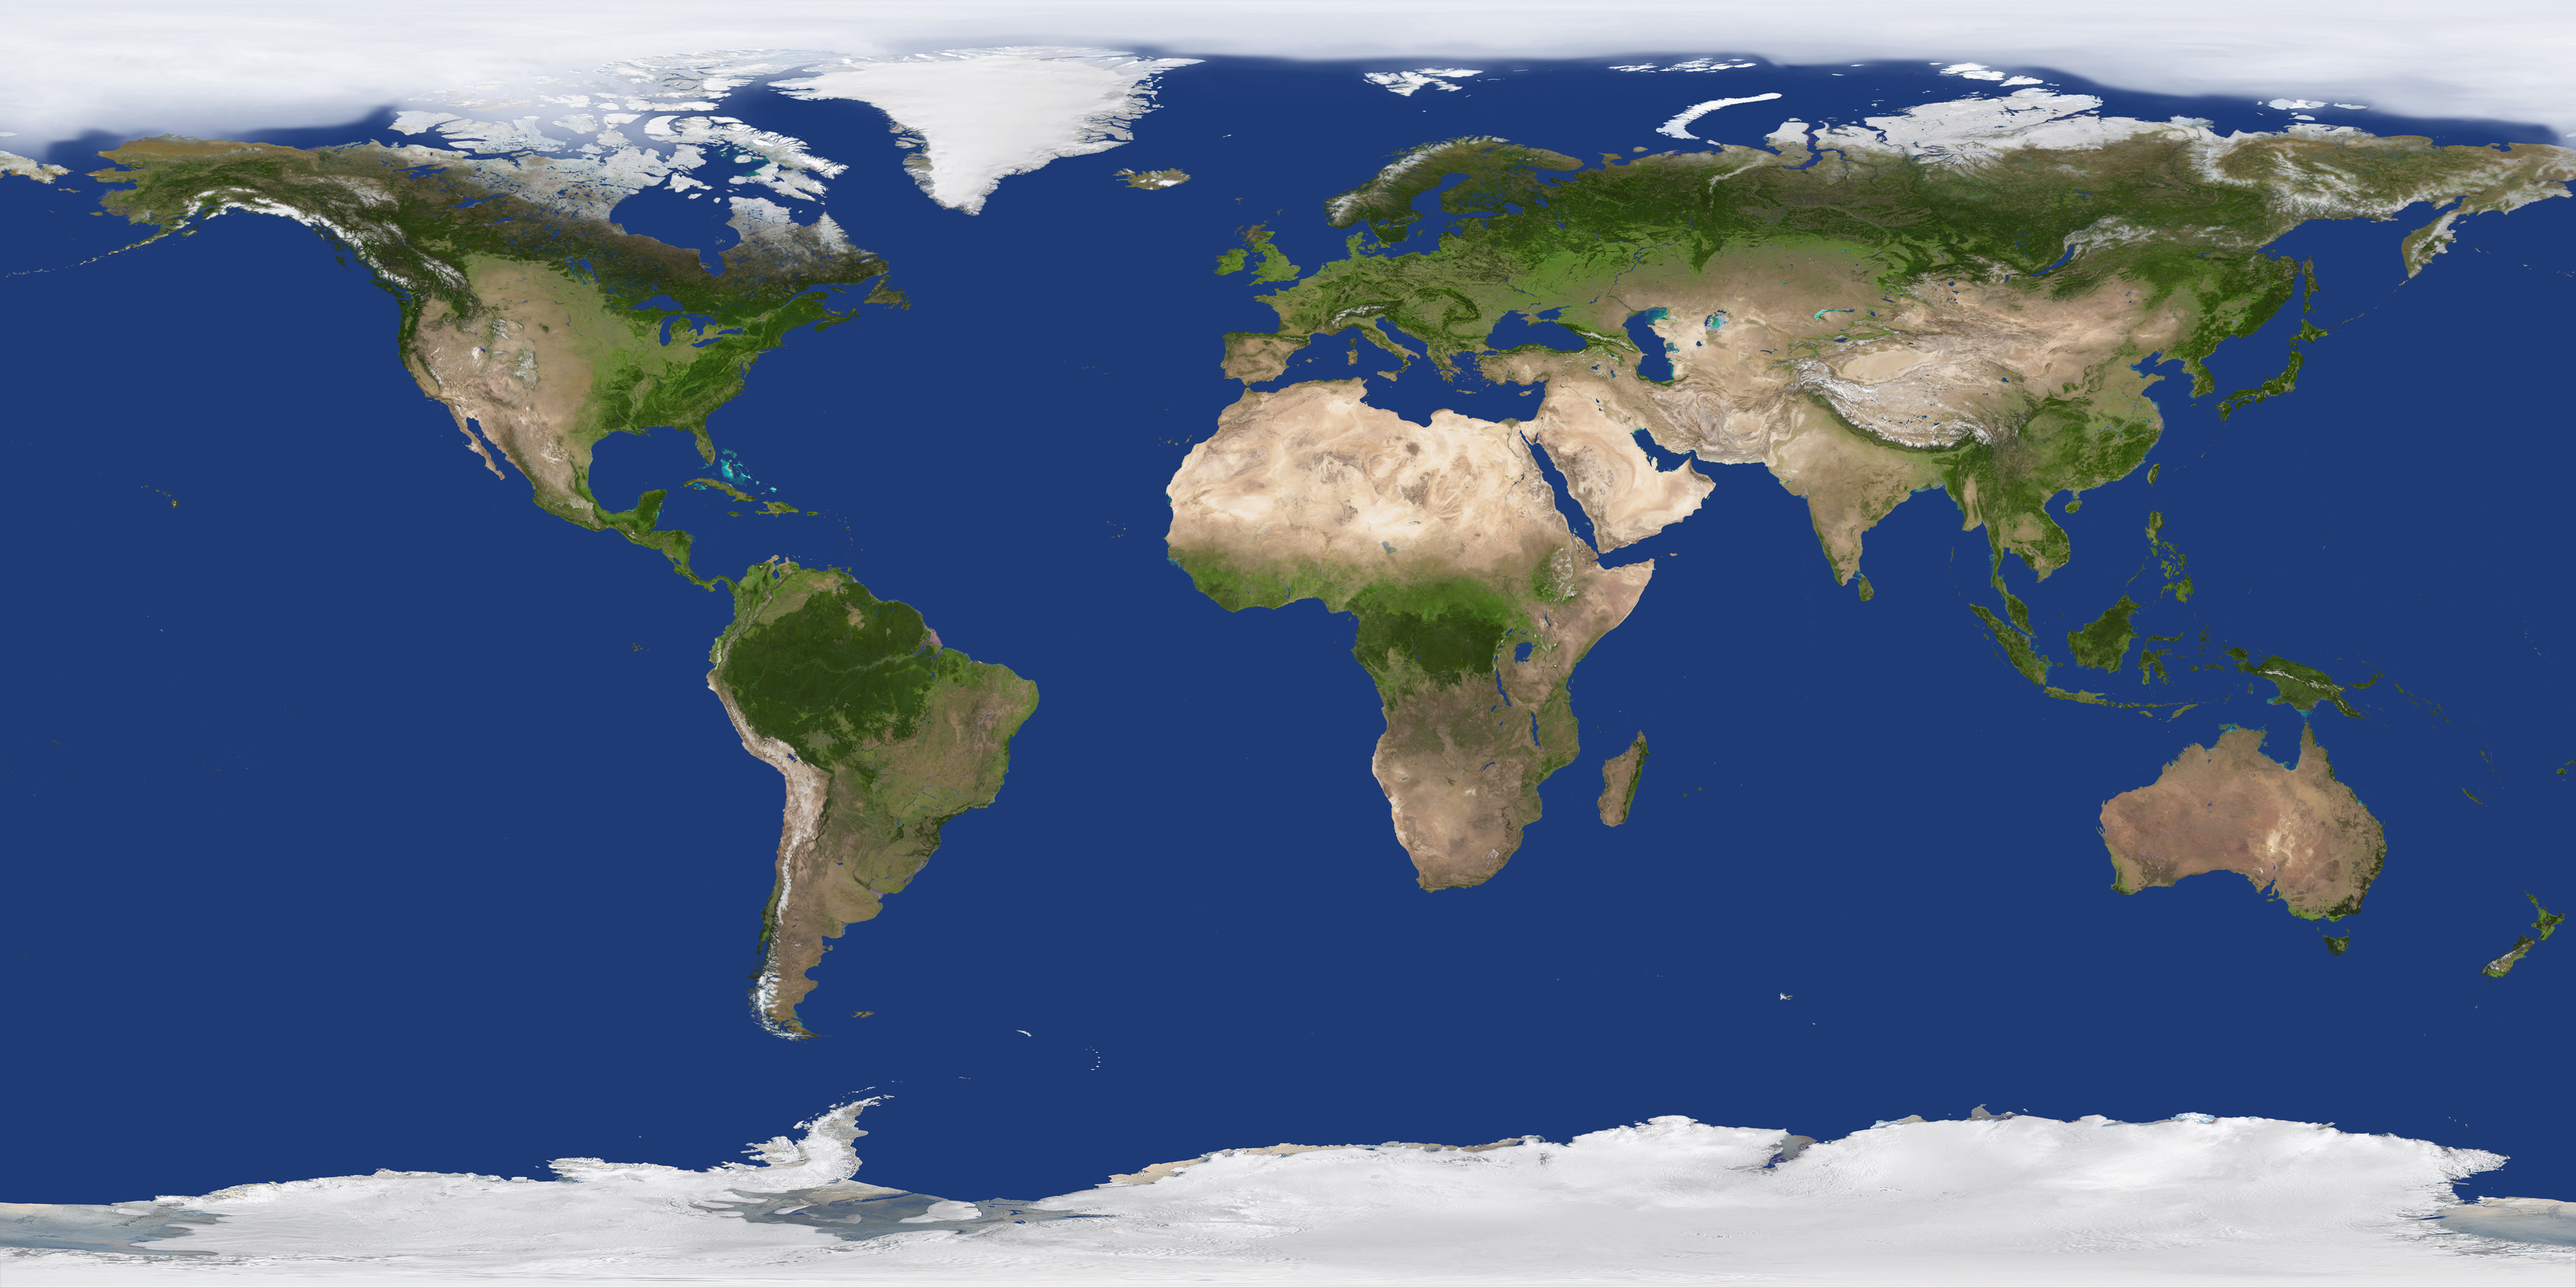
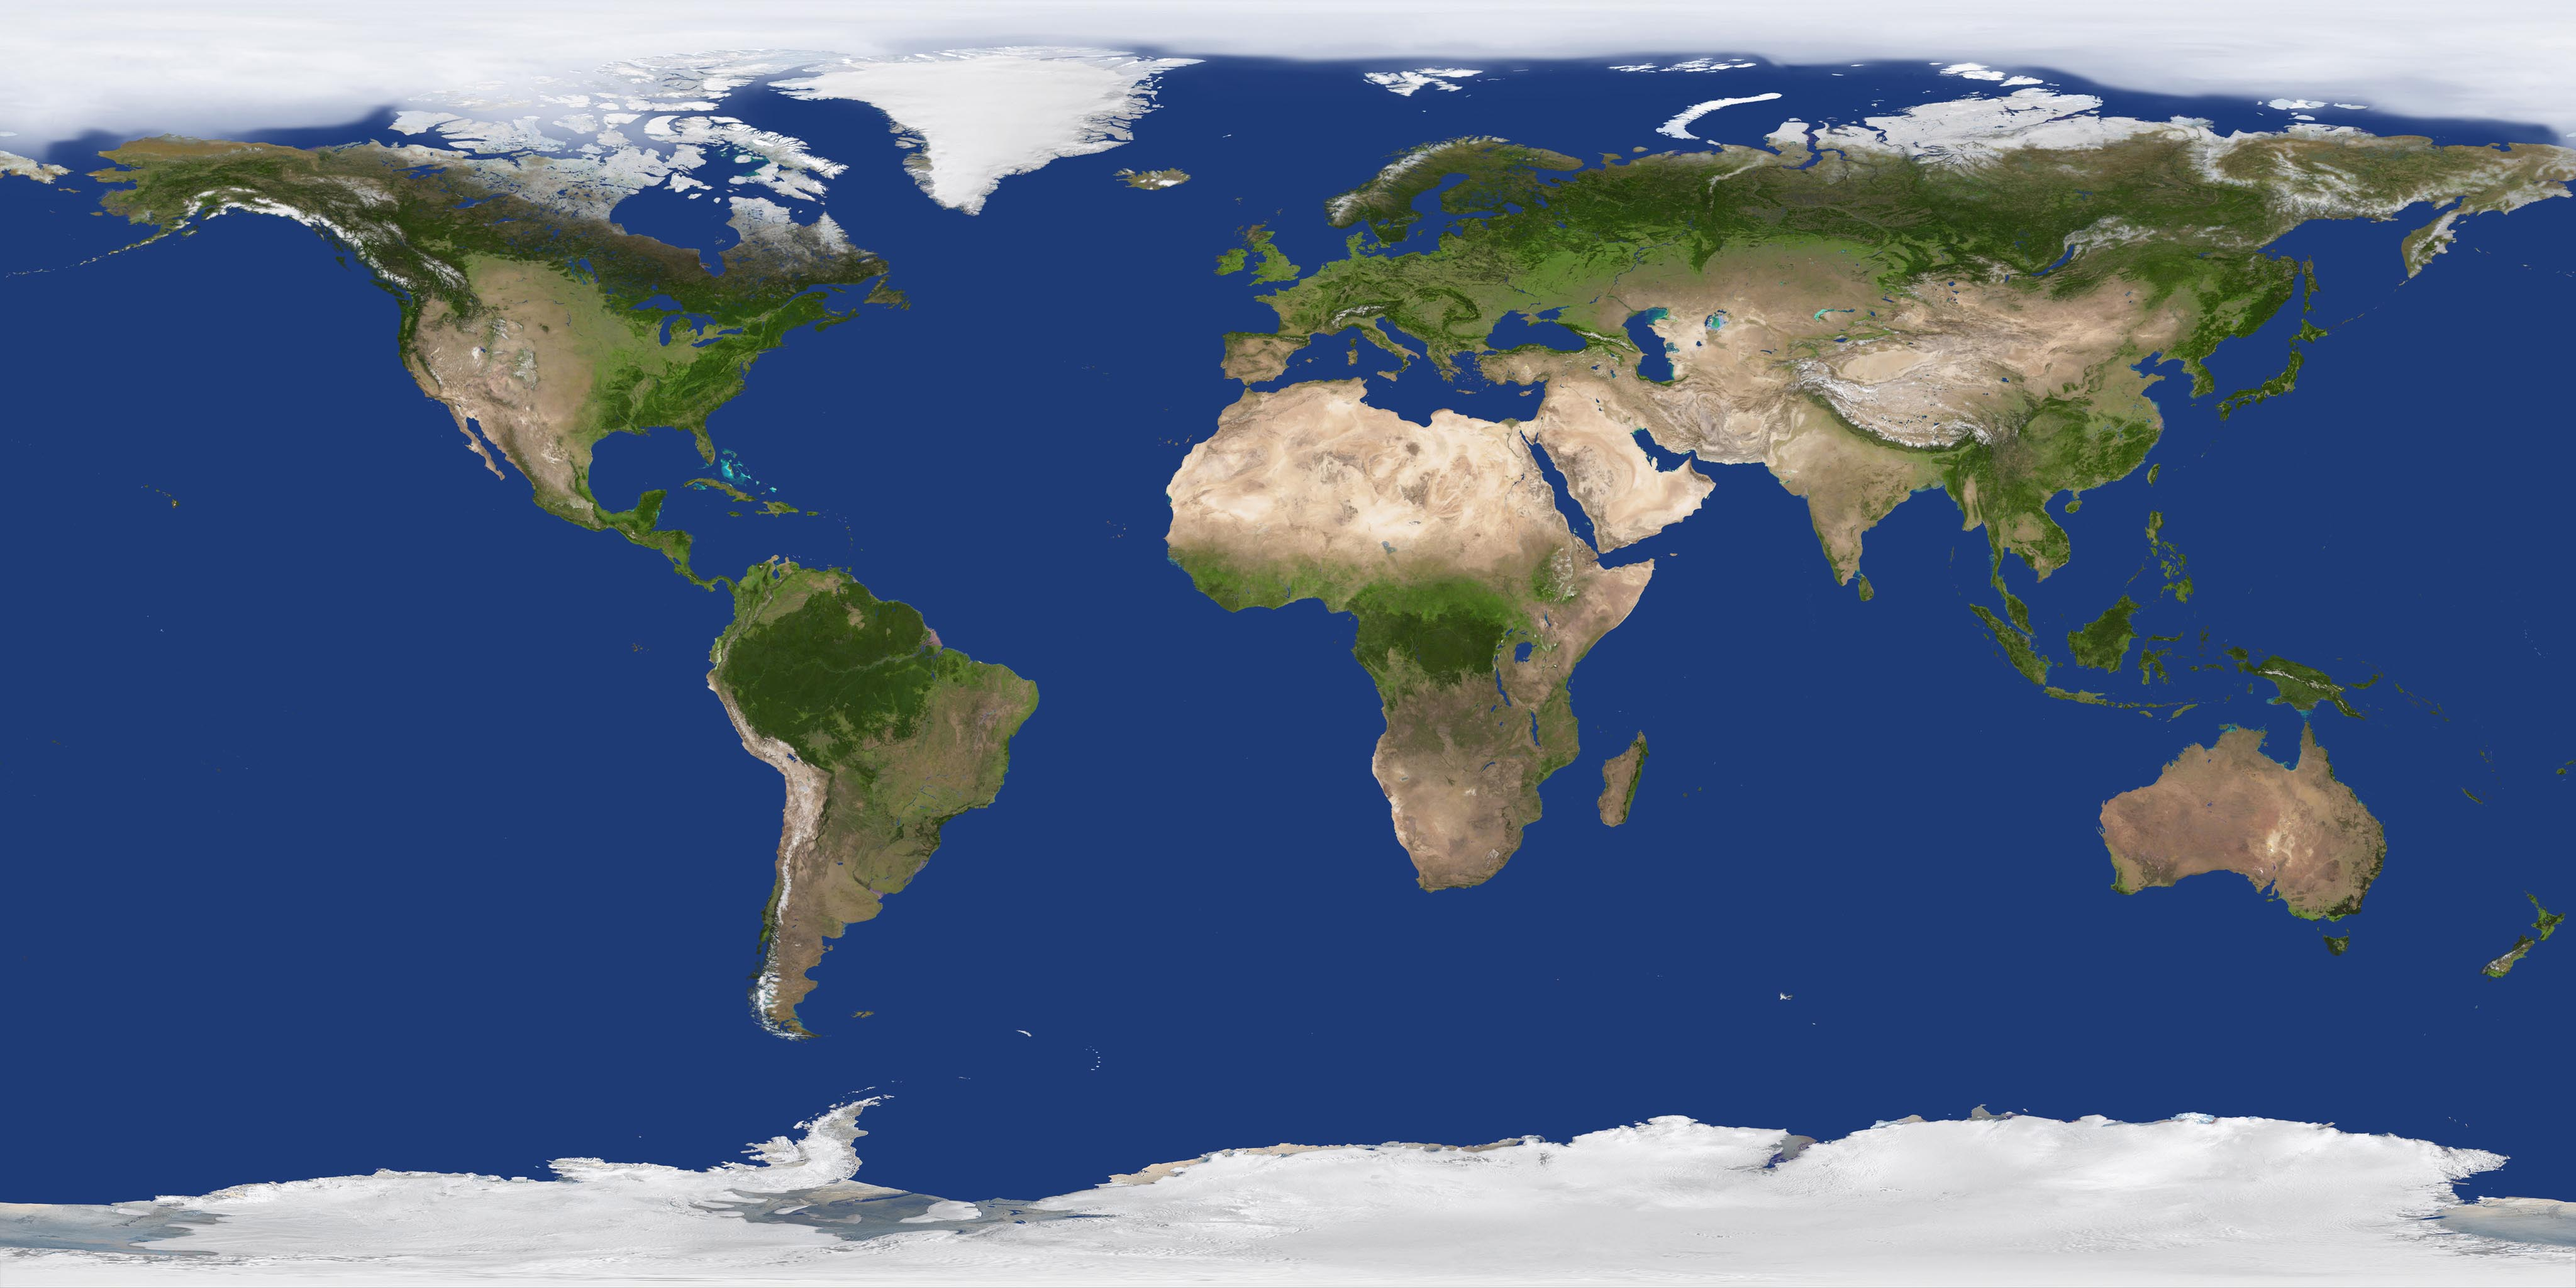
small problems and img size

diff --git a/panorama/src/panorama.js b/panorama/src/panorama.js
@@ -43,7 +43,7 @@ function Panorama(viewerId, img) {
 		'    else if (type == 3) {\n' +
 		'        float theta = l * 3.141593;\n' +
 		'        if (l > 0.0) v = rot * vec3(cos(theta), n*sin(theta));\n' +
-		'        else v = rot * vec3(1.0, n);\n' +
+		'        else v = rot * vec3(0.3183099, n);\n' +
 		'    }\n' +
 		'    else if (type == 4) {\n' +
 		'        vec3 p = vec3(0.5, d) / (lq+0.25);\n' +
